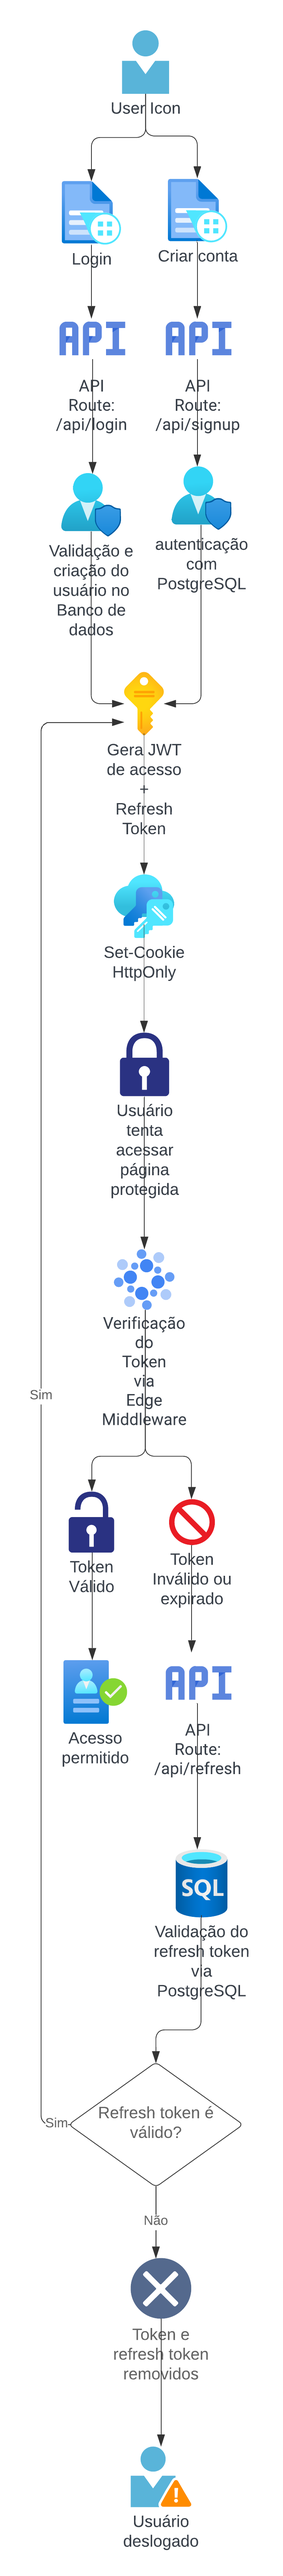
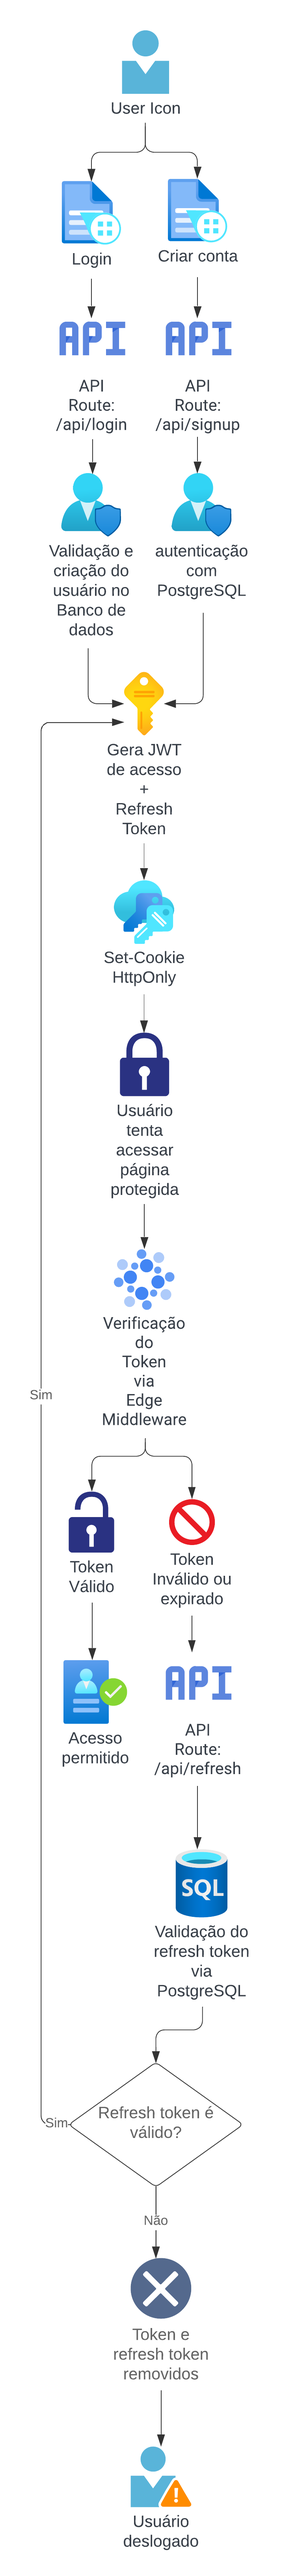
feat: auth fluxogram image implemented

diff --git a/app/(routes)/aboutApp/page.tsx b/app/(routes)/aboutApp/page.tsx
@@ -10,11 +10,11 @@ export default function aboutApp() {
     {
       id: 1,
       content:
-        "Busca por espécies utilizando consumindo a API do GBIF com Server Side Rendering (SSR).",
+        "Busca por espécies consumindo a API do GBIF com uma mescla de Server Side Rendering (SSR) e Static Site Generation (SSG).",
     },
     {
       id: 2,
-      content: "Requisições paralelas com ",
+      content: "Requisições paralelas e tratadas com ",
       code: "Promise.allSettled",
       suffix: " para garantir disponibilidade de dados.",
     },
@@ -51,11 +51,11 @@ export default function aboutApp() {
     {
       id: 3,
       content:
-        "Renovação automática de token por meio de rotas protegidas e SSR seguro.",
+        "Renovação automática de token por meio de rotas protegidas por e SSR seguro.",
     },
     {
       id: 4,
-      content: "Validação de token nas rotas privadas do Next App Router.",
+      content: "Validação de token nas rotas privadas do Next App Router por meio de Edge Middlewares.",
     },
     {
       id: 5,
@@ -70,13 +70,7 @@ export default function aboutApp() {
       content: "Encriptação de senhas com ",
       strong: ["bcrypt"],
       suffix: ".",
-    },
-    {
-      id: 7,
-      content:
-        "Lógica de authenticação centralizada usando middlewares a nível de edge para proteção de rotas end-to-end e boa performance ",
-      suffix: ".",
-    },
+    }
   ];
 
   const stateManagement = [
@@ -84,7 +78,7 @@ export default function aboutApp() {
       id: 1,
       content: "Persistência automática via ",
       code: "redux-persist",
-      suffix: " com integração ao localStorage.",
+      suffix: " com integração ao armazenamento local do navegador.",
     },
     {
       id: 2,
@@ -138,7 +132,7 @@ export default function aboutApp() {
     {
       id: 3,
       content:
-        "Carregadores visuais com animações suaves e transições modernas.",
+        "Loaders visuais com animações suaves e transições modernas.",
     },
     {
       id: 4,
@@ -166,7 +160,7 @@ export default function aboutApp() {
         </h1>
         <p className="text-base leading-relaxed text-neutral-500">
           O <strong>Eco Data</strong> é uma plataforma construída com{" "}
-          <strong>Next.js 14 (App Router + Server Components)</strong> para
+          <strong>Next.js 15 (App Router + Server/Client Components)</strong> para
           explorar, pesquisar e visualizar informações sobre espécies animais
           utilizando a API pública do{" "}
           <a
@@ -358,7 +352,7 @@ export default function aboutApp() {
       </section>
 
       <section>
-        <p className="text-sm text-neutral-400 mt-8">
+        <p className="text-xs text-neutral-400 mt-8">
           Desenvolvido com dedicação por Carlos Teixeira &mdash; 2025.
         </p>
       </section>

diff --git a/app/components/searchPageComponents/NestedAccordionMenu.tsx b/app/components/searchPageComponents/NestedAccordionMenu.tsx
@@ -162,7 +162,7 @@ function DisclosureItem({ item, depthLevel, onSearch }: IDisclosureItem) {
               children?.length === 0 && (
                 <p className="text-primary-100">{"Sem filhos"}</p>
               )}
-          {loading || children?.length === 0 ? (
+          {/* {loading || children?.length === 0 ? (
             <ButtonLoader
               className="border-none h-7 max-h-7 flex w-full justify-end items-center"
               btnIsDark={false}
@@ -177,6 +177,33 @@ function DisclosureItem({ item, depthLevel, onSearch }: IDisclosureItem) {
               <PlusIcon className="w-7 h-7" />
               <h5>Buscar mais</h5>
             </div>
+          )} */}
+          {isOpen && children === null ? (
+            <ButtonLoader
+              className="border-none h-7 max-h-7 flex w-full justify-end items-center"
+              btnIsDark={false}
+            />
+          ) : (
+            <>
+              {children && children.length > 0 && (
+                <>
+                  {loading ? (
+                    <ButtonLoader
+                      className="border-none h-7 max-h-7 flex w-full justify-end items-center"
+                      btnIsDark={false}
+                    />
+                  ) : (
+                    <div
+                      className="flex gap-2 w-full justify-end items-center cursor-pointer hover:scale-105 duration-200 ease-in-out transform"
+                      onClick={() => handleFetchMoreItems()}
+                    >
+                      <PlusIcon className="w-7 h-7" />
+                      <h5>Buscar mais</h5>
+                    </div>
+                  )}
+                </>
+              )}
+            </>
           )}
         </DisclosurePanel>
       </div>

diff --git a/app/components/searchPageComponents/SpeciesCarousel.tsx b/app/components/searchPageComponents/SpeciesCarousel.tsx
@@ -35,19 +35,23 @@ export const SpeciesCarousel = ({ images }: Props) => {
         ))}
       </div>
 
-      <button
-        onClick={prev}
-        className="absolute flex justify-center items-center px-2 py-2 top-1/2 left-4 -translate-y-1/2 bg-black/40 w-10 h-10 text-white rounded-full hover:bg-black/70 z-10"
-      >
-        <ArrowLeftIcon className="w-6 h-6" />
-      </button>
+      {images.length > 1 && (
+        <>
+          <button
+            onClick={prev}
+            className="absolute flex justify-center items-center px-2 py-2 top-1/2 left-4 -translate-y-1/2 bg-black/40 w-10 h-10 text-white rounded-full hover:bg-black/70 z-10"
+          >
+            <ArrowLeftIcon className="w-6 h-6" />
+          </button>
 
-      <button
-        onClick={next}
-        className="absolute flex justify-center items-center top-1/2 px-2 py-2 right-4 -translate-y-1/2 bg-black/40 w-10 h-10 text-white rounded-full hover:bg-black/70 z-10"
-      >
-        <ArrowRightIcon className="w-6 h-6" />
-      </button>
+          <button
+            onClick={next}
+            className="absolute flex justify-center items-center top-1/2 px-2 py-2 right-4 -translate-y-1/2 bg-black/40 w-10 h-10 text-white rounded-full hover:bg-black/70 z-10"
+          >
+            <ArrowRightIcon className="w-6 h-6" />
+          </button>
+        </>
+      )}
 
       <div className="absolute bottom-4 left-1/2 -translate-x-1/2 flex gap-4">
         {images.map((_, idx) => (

diff --git a/app/components/home/LogoBanner.tsx b/app/components/home/LogoBanner.tsx
@@ -4,10 +4,10 @@ import Logo from "../../assets/logos/siapesqlogo.svg";
 const LogoBanner = () => (
   <div className="relative drop-shadow-2xl">
     <div className="absolute inset-0 bg-[url(/tartaruga.jpg)] bg-cover bg-fixed grayscale opacity-55" />
-    <div className="relative z-10 flex flex-col items-center justify-center gap-10 md:flex-row h-full py-20">
-      <h2 className="text-tertiary-400 font-bold text-5xl flex-1 text-center">Sustentabilidade</h2>
+    <div className="relative z-10 flex flex-col items-center justify-center gap-10 md:flex-row h-full py-20 text-tertiary-400 ">
+      <h2 className="font-bold text-4xl flex-1 text-center">Sustentabilidade</h2>
       <Image src={Logo} alt="Logo" width={350} height={350} className=" flex-1"/>
-      <h2 className="text-tertiary-400 font-bold text-5xl flex-1 text-center">Tecnologia</h2>
+      <h2 className="font-bold text-4xl flex-1 text-center">Tecnologia</h2>
     </div>
   </div>
 );

diff --git a/app/components/aboutMe/AboutMeSection.tsx b/app/components/aboutMe/AboutMeSection.tsx
@@ -9,9 +9,9 @@ const AboutMeSection = () => {
       <div className="flex-1">
         <h5 className="font-normal text-lg text-neutral-500">
           Olá! Sou desenvolvedor full-stack com mais de 2 anos de experiência em
-          projetos reais, liderando equipe e entregando soluções com Next.js,
-          NestJS, MongoDB e TypeScript. Sigo boas práticas como Clean Code,
-          SOLID e POO. Tenho vivência com deploys, servidores, metodologias
+          projetos reais, liderando equipes de iniciantes e entregando soluções com Next.js,
+          NestJS, MongoDB e TypeScript. Conheço e sigo boas práticas como Clean Code,
+          SOLID e POO. Tenho experiência com deploys, servidores, metodologias
           ágeis e também com Java e design. Sou movido por desafios e
           comprometido com resultados que geram valor. Vamos conversar?
         </h5>

diff --git a/app/components/aboutApp/FluxogramSection.tsx b/app/components/aboutApp/FluxogramSection.tsx
@@ -34,13 +34,12 @@ export default function FluxogramSection() {
           <Image
             src={Fluxogram}
             alt="Diagrama de autenticação do app"
-            className="w-full pr-3"
+            className="w-full rounded-2xl border border-secondary-600"
             width={1200}
             height={800}
           />
         </picture>
 
-        {/* Gradiente Fade-Out */}
         {!expanded && isMobile && (
           <div className="absolute bottom-0 left-0 w-full h-20 bg-gradient-to-t from-white to-transparent pointer-events-none" />
         )}

diff --git a/app/components/forms/AuthForm.tsx b/app/components/forms/AuthForm.tsx
@@ -208,6 +208,8 @@ const AuthForm = () => {
         });
         setIsLoading(false);
       }
+    } else {
+      setIsLoading(false);
     }
   };
 
@@ -302,6 +304,8 @@ const AuthForm = () => {
         });
         setIsLoading(false);
       }
+    } else {
+      setIsLoading(false);
     }
   };
 

diff --git a/README.md b/README.md
@@ -38,7 +38,7 @@ Construído com **Next.js (App Router), TypeScript, Tailwind CSS, Redux Toolkit*
 
 ## **Fluxo de autenticação**
 
-<img src="./app/assets/images/app-fluxogram.png" alt="Fluxograma" width="400"/>
+<img src="./app/assets/images/app-fluxogram.png" alt="Fluxograma" width="800"/>
 
 ---
 
